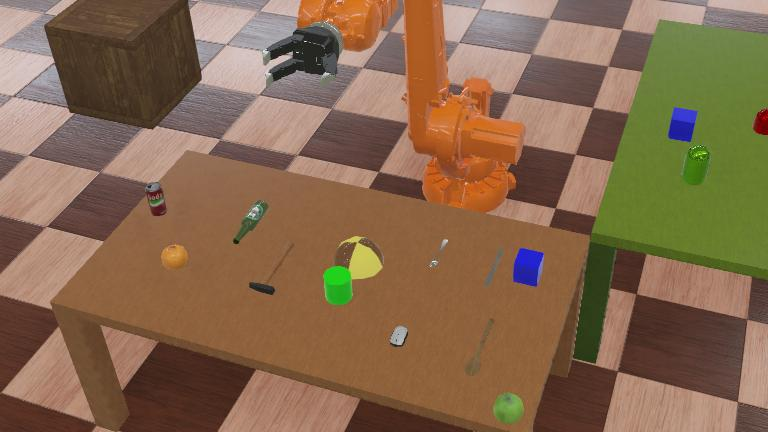
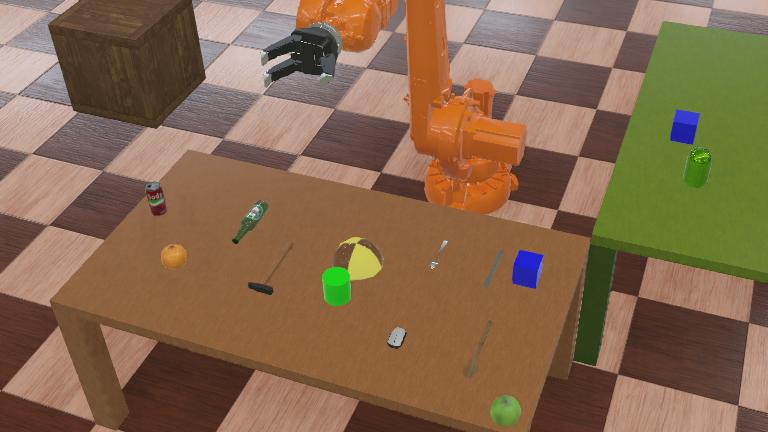
moveTableNodes dev

diff --git a/controllers/ArmController/TrainingsHelper.py b/controllers/ArmController/TrainingsHelper.py
@@ -18,7 +18,7 @@ warnings.filterwarnings("ignore", category=UserWarning)
 imageWidth = 2560
 imageHeight = 1422
 SAVEFIGS=True
-categories = ['dummy','','apple', 'orange', 'bottle','can','computer mouse','knife','fork','hammer','wooden spoon','beer bottle']
+categories = ['dummy','','apple', 'orange', 'bottle','can','computer mouse','hammer','wooden spoon','beer bottle','Cylinder','Cube']
 fileNamePostfix = 1
 
 def makeSnapshot(camera,type='train'):
@@ -116,16 +116,22 @@ def startTraining():
 def moveTableNodes(supervisor,table):
     margin = 0.1
     zCoord = 0.7897645717378102
-    bottomLeft = [1.02418,0.784482,zCoord]
-    topLeft = [2.01797,0.799213,zCoord]
-    bottomRight = [1.02293,-0.993013,zCoord]
-    topRight = [1.99722,-0.990657,zCoord]
+    # bottomLeft = [1.02418,0.784482,zCoord]
+    # topLeft = [2.01797,0.799213,zCoord]
+    # bottomRight = [1.02293,-0.993013,zCoord]
+    # topRight = [1.99722,-0.990657,zCoord]
+    bottomLeft = table.local2world([0,1,0])
+    topLeft = table.local2world([0,0,0])
+    bottomRight =table.local2world([1,1,0])
+    topRight = table.local2world([1,0,0])
     x_min = bottomLeft[0] + (topRight[0] - bottomLeft[0]) * margin
     x_max = topRight[0] - (topRight[0] - bottomLeft[0]) * margin
     y_min = bottomLeft[1] + (topRight[1] - bottomLeft[1]) * margin
     y_max = topRight[1] - (topRight[1] - bottomLeft[1]) * margin
-    objects = [supervisor.getFromDef('apple'), supervisor.getFromDef('beerBottle'), supervisor.getFromDef('can')]
-    for obj in objects:
+    shortenedCategories = categories[2:] #dummy und empty string will be ignored
+    for cat in shortenedCategories:
+        print(cat)
+        obj = supervisor.getFromDef(cat)
         x = random.uniform(x_min, x_max)
         y = random.uniform(y_min, y_max)
         z = bottomLeft[2]
@@ -135,9 +141,9 @@ def moveTableNodes(supervisor,table):
         zRotation = random.uniform(1, 360)
         angle = random.uniform(1, 360)
         obj.getField('rotation').setSFRotation([xRotation,yRotation,zRotation,angle])
-        #print()
+    #print()
     # print(topLeft)
-    # print(table.local2world([-1,-1,0])) # top left coords 
+    # print(table.local2world([0,0,0])) # top left coords 
     # print('moveTableNodes() called')
     # apple = supervisor.getFromDef('apple')
     # #print(apple.getPosition())
@@ -158,7 +164,7 @@ def moveTableNodes(supervisor,table):
 
 def generateTrainingsData(amount, supervisor, camera, table):
     for i in range(amount):
-        moveTableNodes(supervisor,table)
+        moveTableNodes(supervisor,table) #no physics after call?
         makeSnapshot(camera,'train')
             
 
